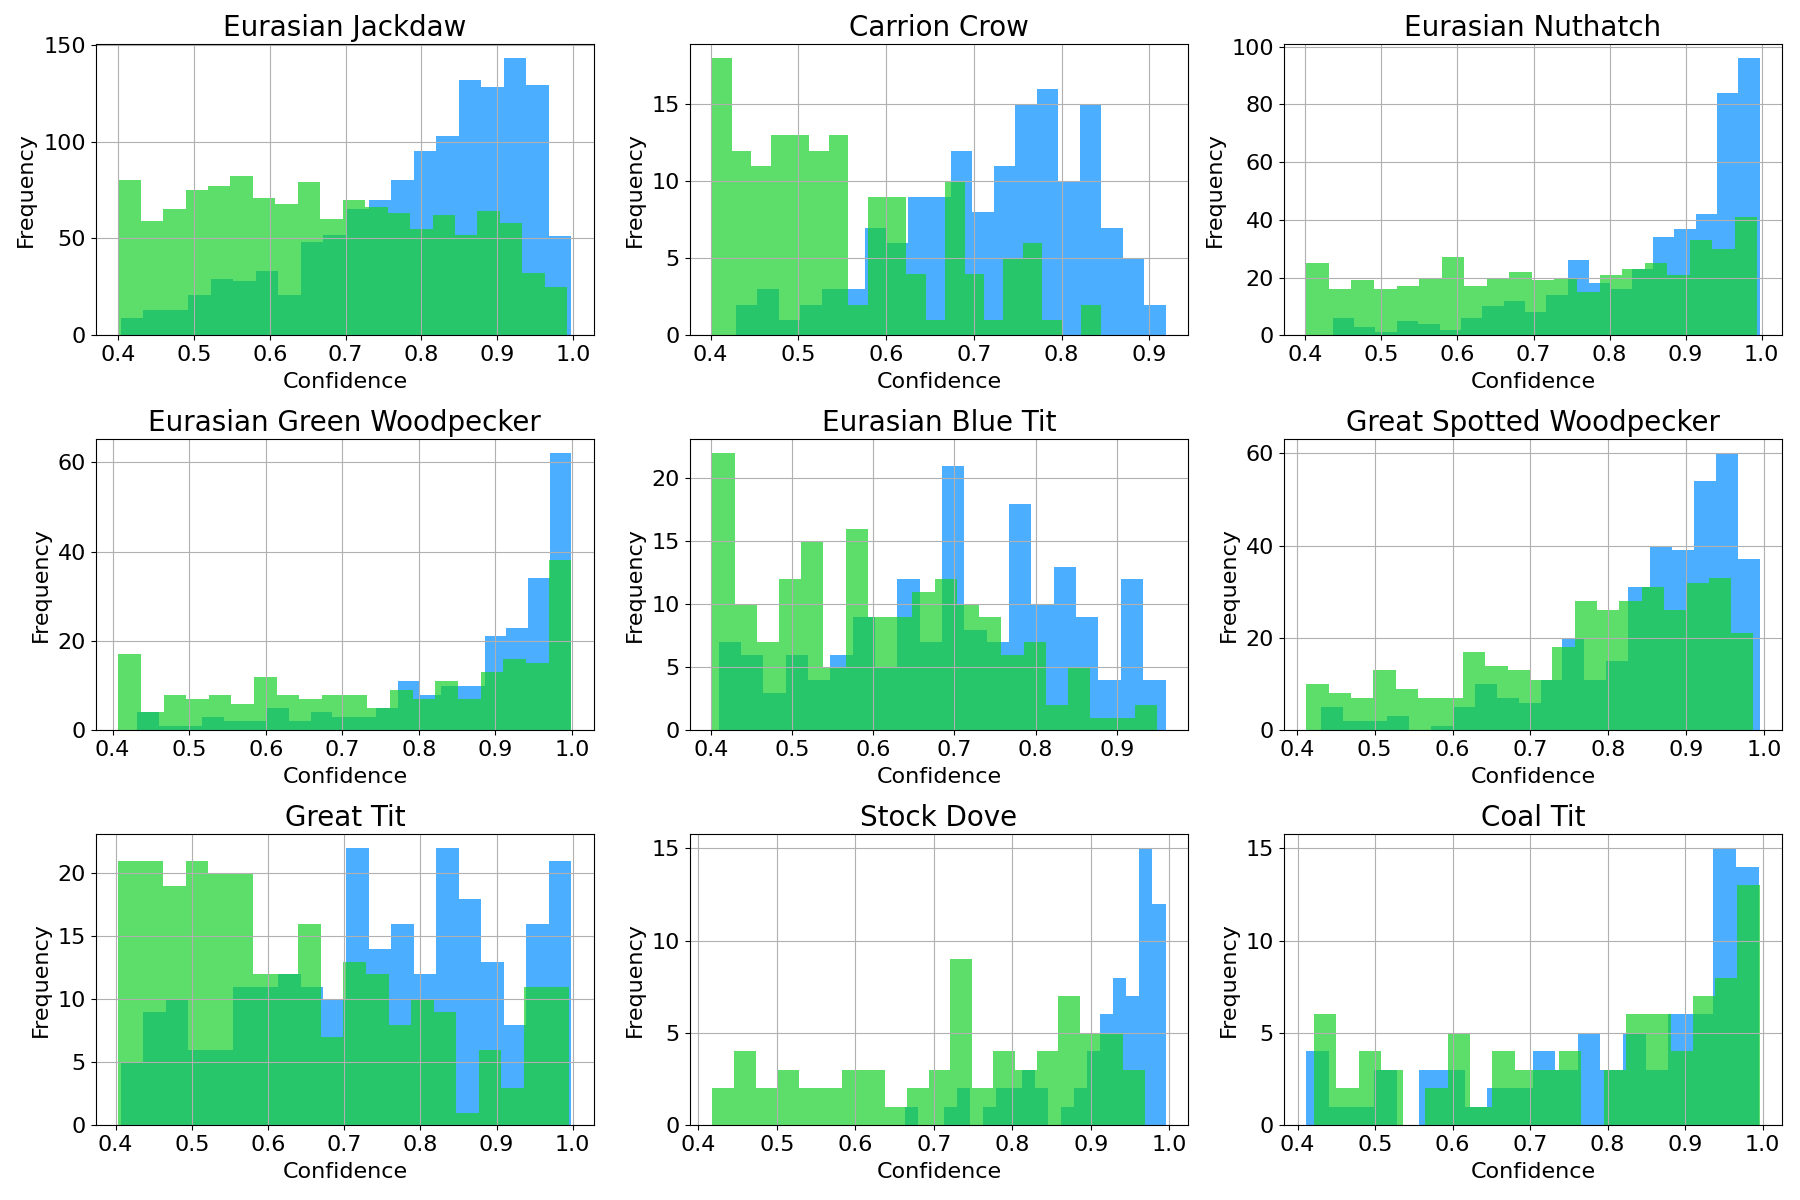
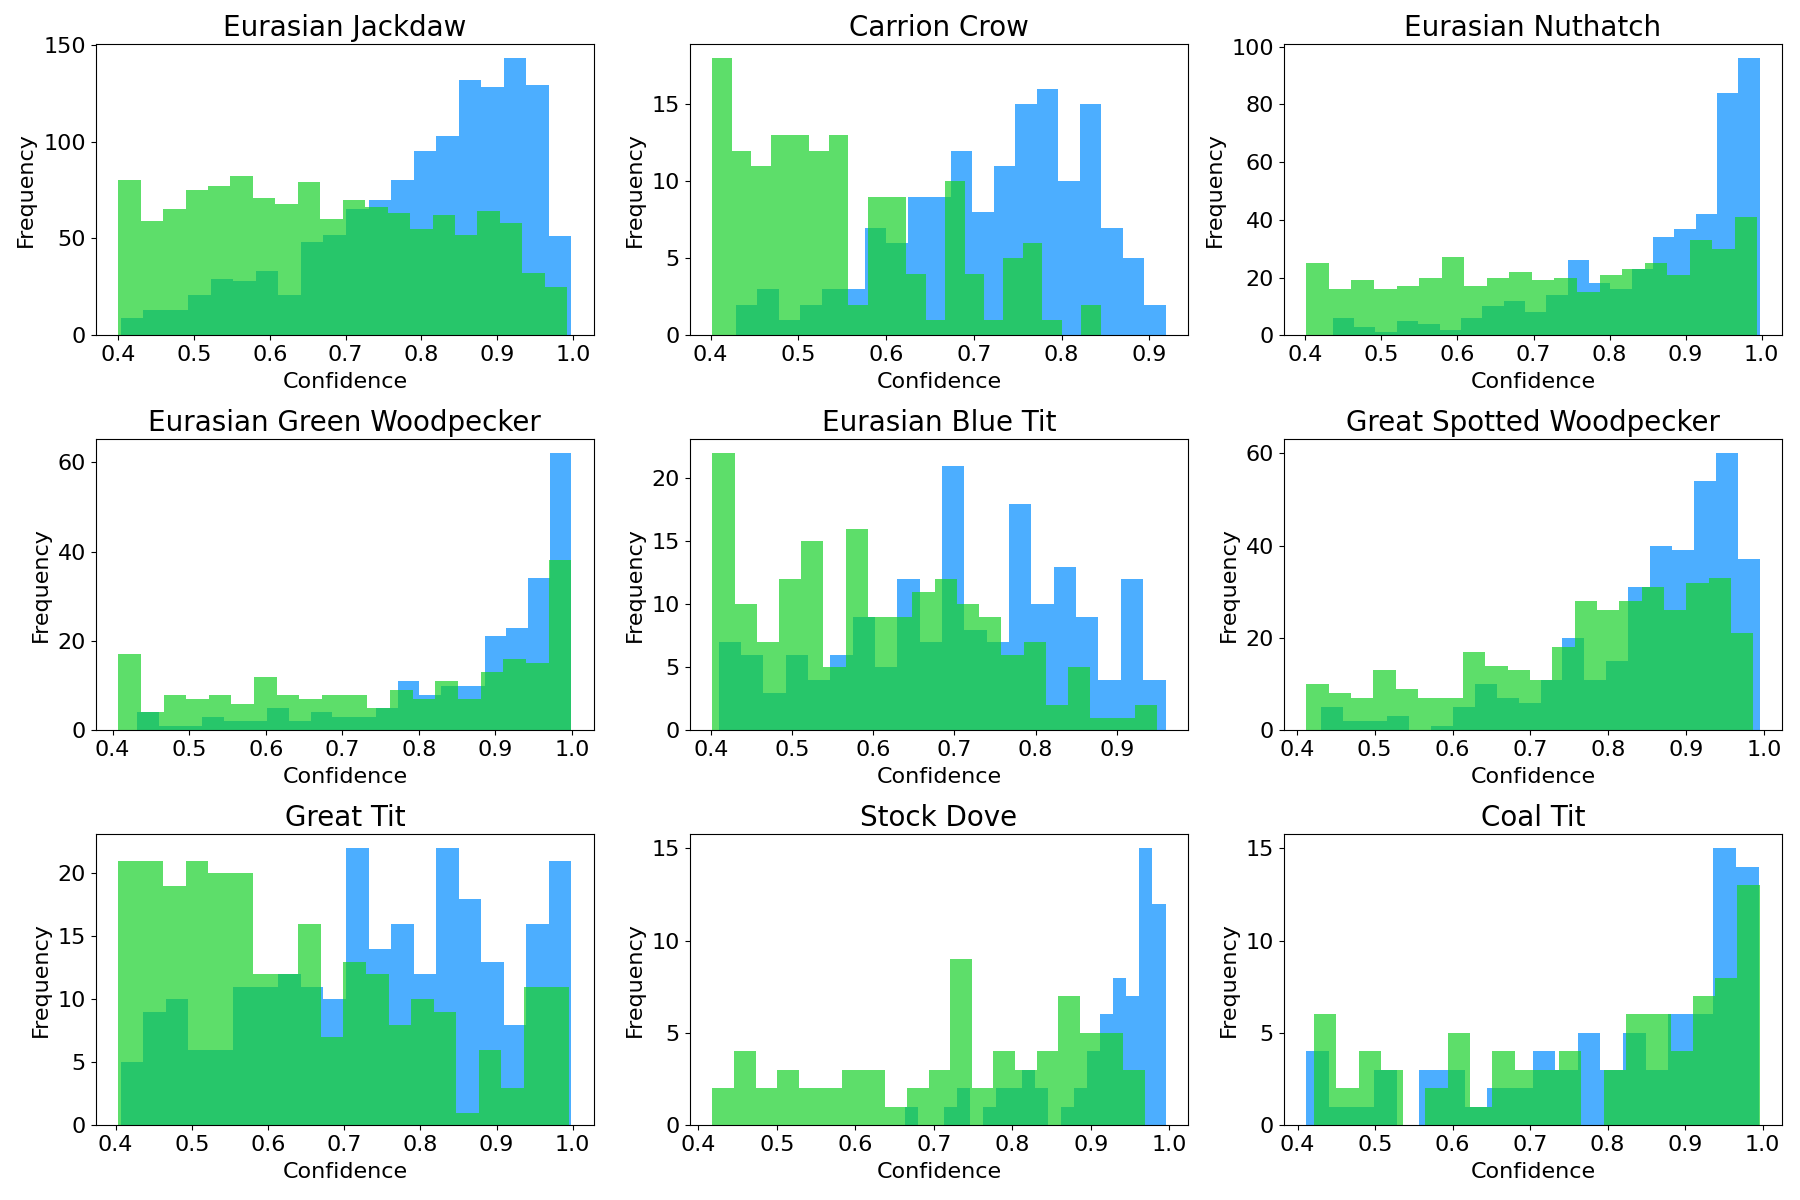
Updated label sizes

diff --git a/src/analysis_scripts/compare_birdnet_results.py b/src/analysis_scripts/compare_birdnet_results.py
@@ -27,6 +27,9 @@ else:
 
 MIN_SAMPLE_SIZE = 30            # At least 30 detections, for confidence level tests
 
+MONO_COL = '#18D12B'        # Colours for plots
+BF_COL = '#008CFF'
+
 # FUNCTIONS FOR PROCESSING A DIRECTORY OF RESULTS FILES-----------------------------------------------------------------------------------
 def read_results_from_file(file_path):
     """Read the BirdNET detections from a file"""
@@ -256,33 +259,30 @@ def get_initials(species_name):
 
 def setup_new_plot(xlabel, ylabel, title):
     """Initialises a new matplotlib plot, with desired parameters"""
-    plt.figure(figsize=(18, 12))
-    plt.xlabel(xlabel, fontsize=16, labelpad=20)
-    plt.ylabel(ylabel, fontsize=16, labelpad=20)
+    plt.figure(figsize=(18, 8))
+    plt.xlabel(xlabel, fontsize=20, labelpad=20)
+    plt.ylabel(ylabel, fontsize=20, labelpad=20)
     plt.tick_params(axis="both", labelsize=14)
     # plt.title(title)  - Don't set title - use fig captions instead
-    plt.grid(True)
+    # plt.grid(True)
 
 
 def draw_overlay_histograms(hist_data_bf, hist_data_mono, species_names, n_rows, n_cols):
     """Draws several histograms in a single plot
     --> Organised in a grid of n_rows x n_cols"""
 
-    mono_col = '#18D12B'
-    bf_col = '#008CFF'
-
     fig=plt.figure(figsize=(18, 12))
     # fig.suptitle(title, fontsize=16)         # As we have subplots, we set an overall title with suptitle
 
     for i, name in enumerate(species_names):
         ax=fig.add_subplot(n_rows,n_cols,i+1)
-        ax.hist(hist_data_bf[i], bins=20, color=bf_col, alpha=0.7)
-        ax.hist(hist_data_mono[i], bins=20, color=mono_col, alpha=0.7)
+        ax.hist(hist_data_bf[i], bins=20, color=BF_COL, alpha=0.7)
+        ax.hist(hist_data_mono[i], bins=20, color=MONO_COL, alpha=0.7)
 
         ax.set_ylabel("Frequency", fontsize=16, labelpad=5)
         ax.set_xlabel("Confidence", fontsize=16, labelpad=5)
         plt.tick_params(axis="both", labelsize=16)
-        ax.grid(True)
+        # ax.grid(True)
         ax.set_title(name, fontsize=20)
     
     fig.tight_layout()  # Improves appearance a bit.
@@ -354,45 +354,116 @@ def plot_confidence_histograms(mono_data, bf_data, mono_file_path, bf_file_path)
         print("No histogram data to plot!")
 
 
+def plt_box_compare(boxplot_conf_data_mono, boxplot_conf_data_bf, boxplot_labels, fp_extension_rm, i):
+    """Plots a boxplot with 2 groups, for side-by-side comparison"""
+
+    setup_new_plot("Species Name", "Confidence", "")
+
+    # Plot the data - unfortunately, for side-by-side groups, we have to lay it out manually...
+    bpl = plt.boxplot(boxplot_conf_data_mono, positions=np.array(range(len(boxplot_conf_data_mono)))*2.0-0.4, sym='', widths=0.6)
+    bpr = plt.boxplot(boxplot_conf_data_bf, positions=np.array(range(len(boxplot_conf_data_bf)))*2.0+0.4, sym='', widths=0.6)
+    set_box_color(bpl, MONO_COL) # colors are from http://colorbrewer2.org/
+    set_box_color(bpr, BF_COL)
+
+    # draw temporary red and blue lines and use them to create a legend
+    plt.plot([], c=MONO_COL, label='Monophonic')
+    plt.plot([], c=BF_COL, label='Beamformed')
+    leg = plt.legend(fontsize=16, loc="upper left")
+    leg.get_lines()[0].set_linewidth(5)
+    leg.get_lines()[1].set_linewidth(5)
+
+    plt.xticks(range(0, len(boxplot_labels) * 2, 2), boxplot_labels)
+    plt.xlim(-2, len(boxplot_labels)*2)
+    plt.ylim(0.35, 1)
+    plt.tight_layout()
+
+    plot_count = str(int(round(i/5, 0)))
+    new_filepath = fp_extension_rm + plot_count + ".png"
+    plt.savefig(new_filepath)
+    
+
+
 def boxplot_conf_comparison(mono_data, bf_data, file_path):
     """Creates a boxplot to compare confidence levels of mono-channel vs beamformed
     --> Split into groups (1 group per species) - for side-by-side comparison"""
 
-    title = f"Confidence levels across species - Mono-channel vs Beamformed Recordings - {LOCATION}"
-    setup_new_plot("Species Initials", "Confidence Levels", title)
+    # title = f"Confidence levels across species - Mono-channel vs Beamformed Recordings - {LOCATION}"
+    # setup_new_plot("Species Name", "Confidence", "")
 
     boxplot_conf_data_mono = []
     boxplot_conf_data_bf = []
     boxplot_labels = []
+
+    fp_extension_rm = file_path.split(".")[0]
+
+    i = 0
 
     # Extract the confidence levels list for each species - append to list of lists
     for species in mono_data.keys():
         if mono_data[species]["count"] >= MIN_SAMPLE_SIZE:    # Only plot those with more than 20 detections (greater sample size)
             boxplot_conf_data_mono.append(mono_data[species]["conf_list"])
             boxplot_conf_data_bf.append(bf_data[species]["conf_list"])
-            boxplot_labels.append(get_initials(species))
+            # boxplot_labels.append(get_initials(species))
+            boxplot_labels.append("'" + species + "'")
+            i += 1
+            if (i % 5) == 0:            # Maximum of 5 species per plot
+                plt_box_compare(boxplot_conf_data_mono, boxplot_conf_data_bf, boxplot_labels, fp_extension_rm, i)
+                # # Plot the data - unfortunately, for side-by-side groups, we have to lay it out manually...
+                # bpl = plt.boxplot(boxplot_conf_data_mono, positions=np.array(range(len(boxplot_conf_data_mono)))*2.0-0.4, sym='', widths=0.6)
+                # bpr = plt.boxplot(boxplot_conf_data_bf, positions=np.array(range(len(boxplot_conf_data_bf)))*2.0+0.4, sym='', widths=0.6)
+                # set_box_color(bpl, MONO_COL) # colors are from http://colorbrewer2.org/
+                # set_box_color(bpr, BF_COL)
 
-    if boxplot_labels:        # If we have some data to plot (otherwise, = [], which acts as False)
-        # Plot the data - unfortunately, for side-by-side groups, we have to lay it out manually...
-        bpl = plt.boxplot(boxplot_conf_data_mono, positions=np.array(range(len(boxplot_conf_data_mono)))*2.0-0.4, sym='', widths=0.6)
-        bpr = plt.boxplot(boxplot_conf_data_bf, positions=np.array(range(len(boxplot_conf_data_bf)))*2.0+0.4, sym='', widths=0.6)
-        set_box_color(bpl, '#D7191C') # colors are from http://colorbrewer2.org/
-        set_box_color(bpr, '#2C7BB6')
+                # # draw temporary red and blue lines and use them to create a legend
+                # plt.plot([], c=MONO_COL, label='Monophonic')
+                # plt.plot([], c=BF_COL, label='Beamformed')
+                # leg = plt.legend(fontsize=20)
+                # leg.get_lines()[0].set_linewidth(5)
+                # leg.get_lines()[1].set_linewidth(5)
 
-        # draw temporary red and blue lines and use them to create a legend
-        plt.plot([], c='#D7191C', label='Mono-channel')
-        plt.plot([], c='#2C7BB6', label='Beamformed')
-        plt.legend()
+                # plt.xticks(range(0, len(boxplot_labels) * 2, 2), boxplot_labels)
+                # plt.xlim(-2, len(boxplot_labels)*2)
+                # plt.ylim(0.4, 1)
+                # plt.tight_layout()
 
-        plt.xticks(range(0, len(boxplot_labels) * 2, 2), boxplot_labels)
-        plt.xlim(-2, len(boxplot_labels)*2)
-        plt.ylim(0.4, 1)
-        plt.tight_layout()
+                # plot_count = str(int(round(i/5, 0)))
+                # new_filepath = fp_extension_rm + plot_count + ".png"
+                # plt.savefig(new_filepath)
 
-        plt.savefig(file_path)
-        # plt.show()
-    else:
-        print("No boxplot data to plot!")
+                # Reset the plotting data...
+                boxplot_conf_data_mono = []
+                boxplot_conf_data_bf = []
+                boxplot_labels = []
+
+
+                # plt.show()
+
+    if boxplot_labels:        # If we have some remaining data to plot (otherwise, = [], which acts as False)
+        plt_box_compare(boxplot_conf_data_mono, boxplot_conf_data_bf, boxplot_labels, fp_extension_rm, i)
+
+    # if boxplot_labels:        # If we have some data to plot (otherwise, = [], which acts as False)
+    #     # Plot the data - unfortunately, for side-by-side groups, we have to lay it out manually...
+    #     bpl = plt.boxplot(boxplot_conf_data_mono, positions=np.array(range(len(boxplot_conf_data_mono)))*2.0-0.4, sym='', widths=0.6)
+    #     bpr = plt.boxplot(boxplot_conf_data_bf, positions=np.array(range(len(boxplot_conf_data_bf)))*2.0+0.4, sym='', widths=0.6)
+    #     set_box_color(bpl, MONO_COL) # colors are from http://colorbrewer2.org/
+    #     set_box_color(bpr, BF_COL)
+
+    #     # draw temporary red and blue lines and use them to create a legend
+    #     plt.plot([], c=MONO_COL, label='Monophonic')
+    #     plt.plot([], c=BF_COL, label='Beamformed')
+    #     leg = plt.legend(fontsize=20)
+    #     leg.get_lines()[0].set_linewidth(5)
+    #     leg.get_lines()[1].set_linewidth(5)
+
+    #     plt.xticks(range(0, len(boxplot_labels) * 2, 2), boxplot_labels)
+    #     plt.xlim(-2, len(boxplot_labels)*2)
+    #     plt.ylim(0.4, 1)
+    #     plt.tight_layout()
+
+    #     plt.savefig(file_path)
+    #     # plt.show()
+    # else:
+    #     print("No boxplot data to plot!")
 
 
 def get_unique_species(arr):
